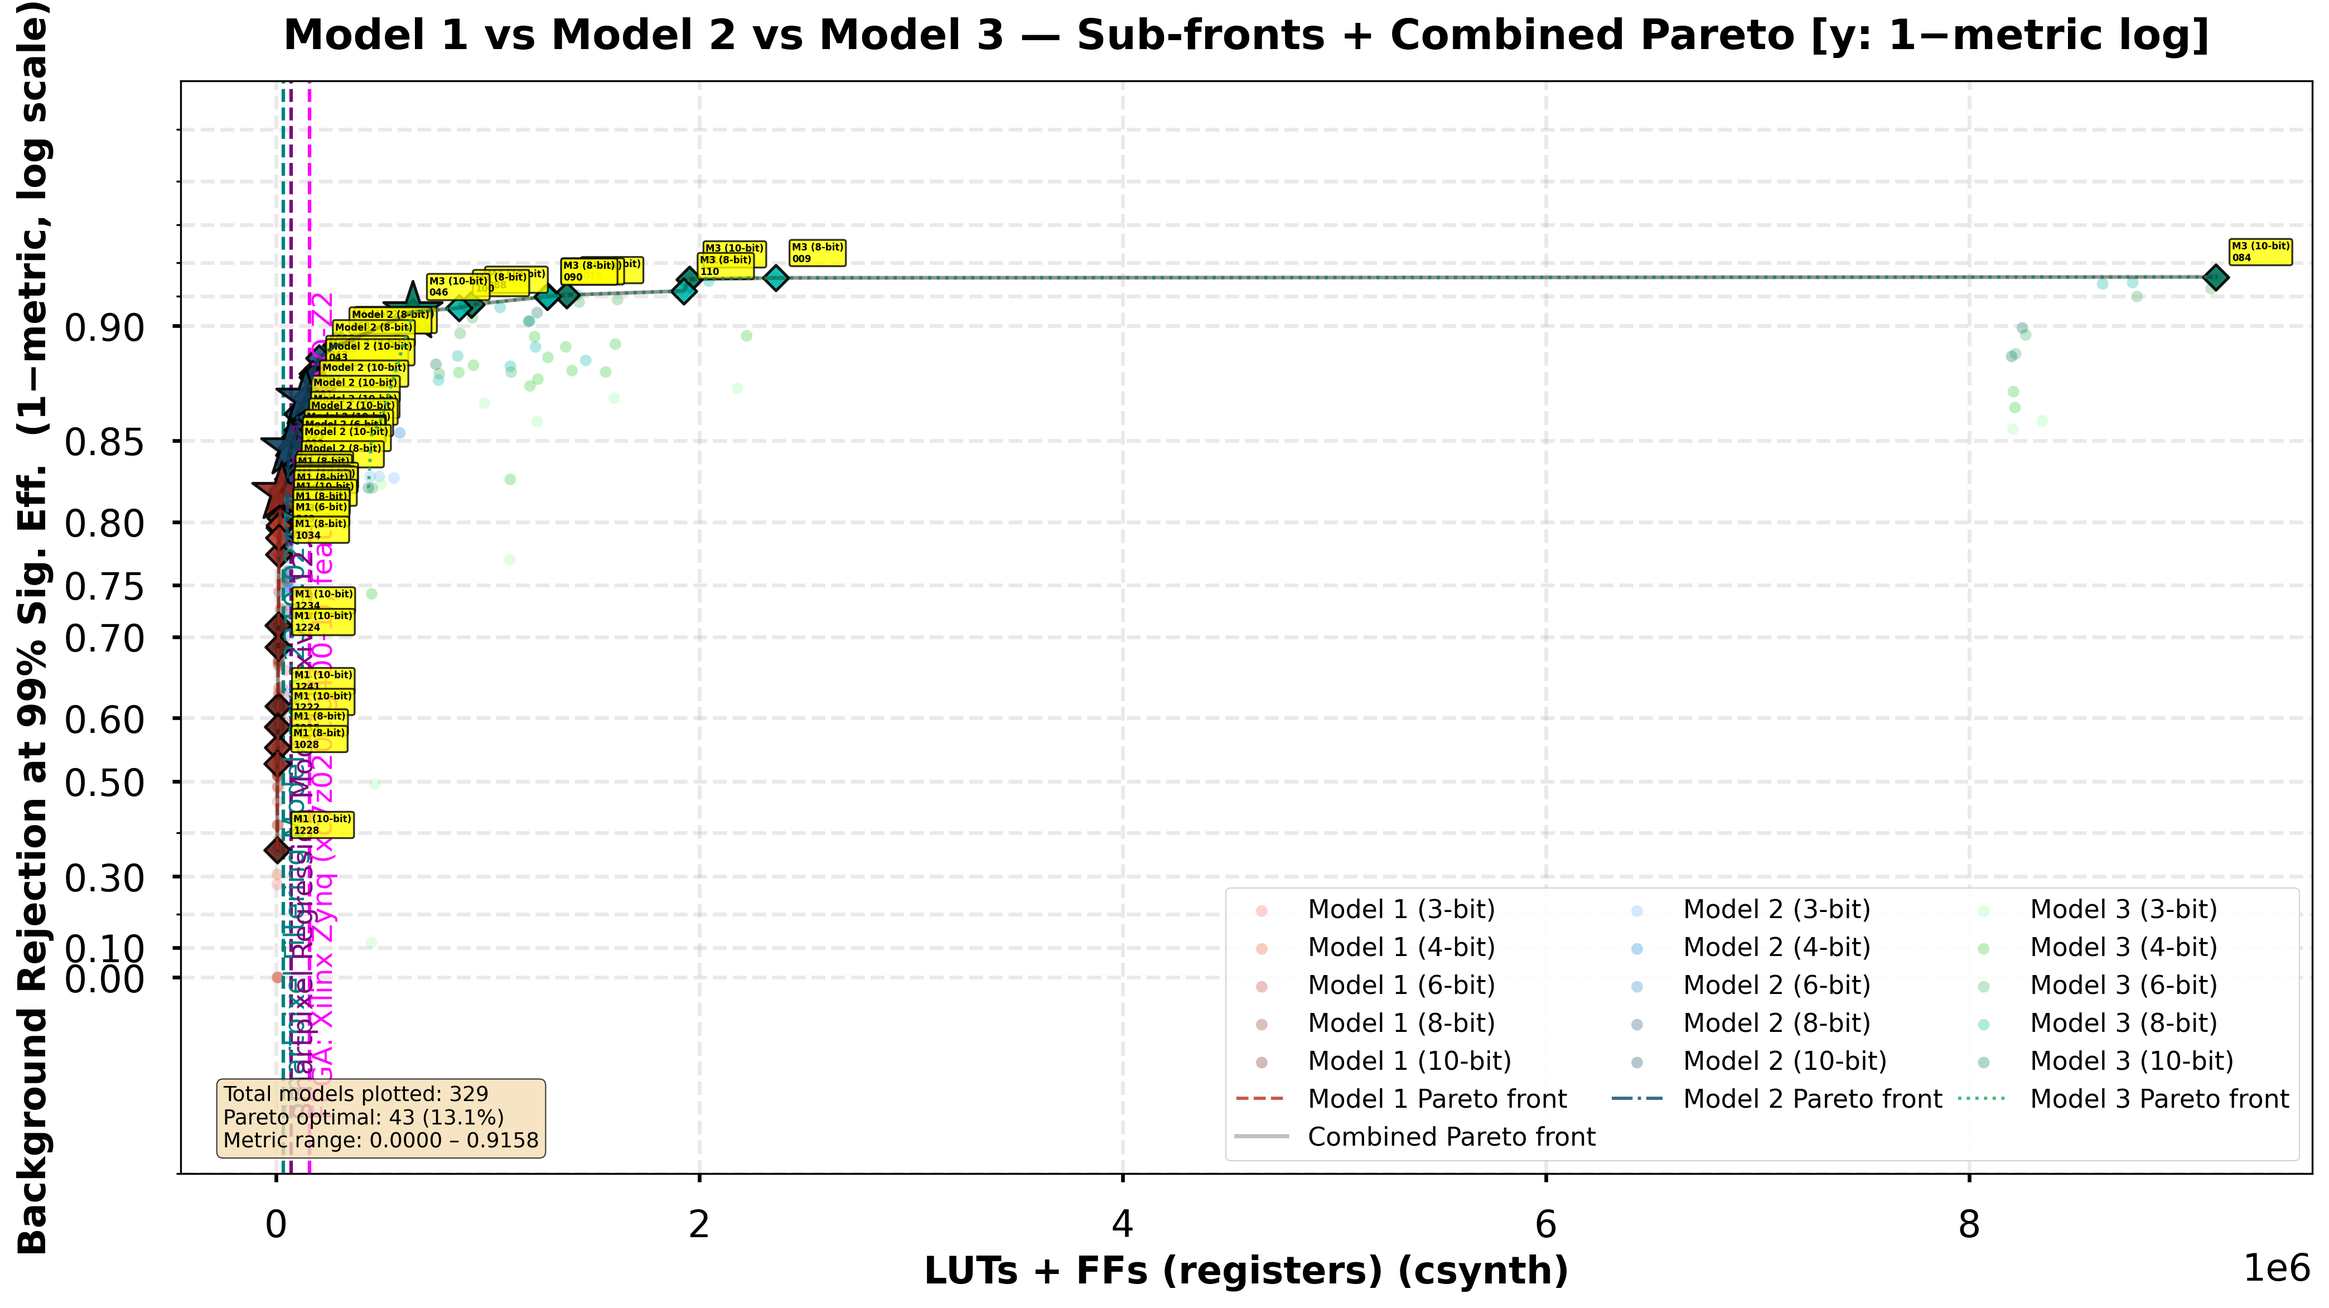
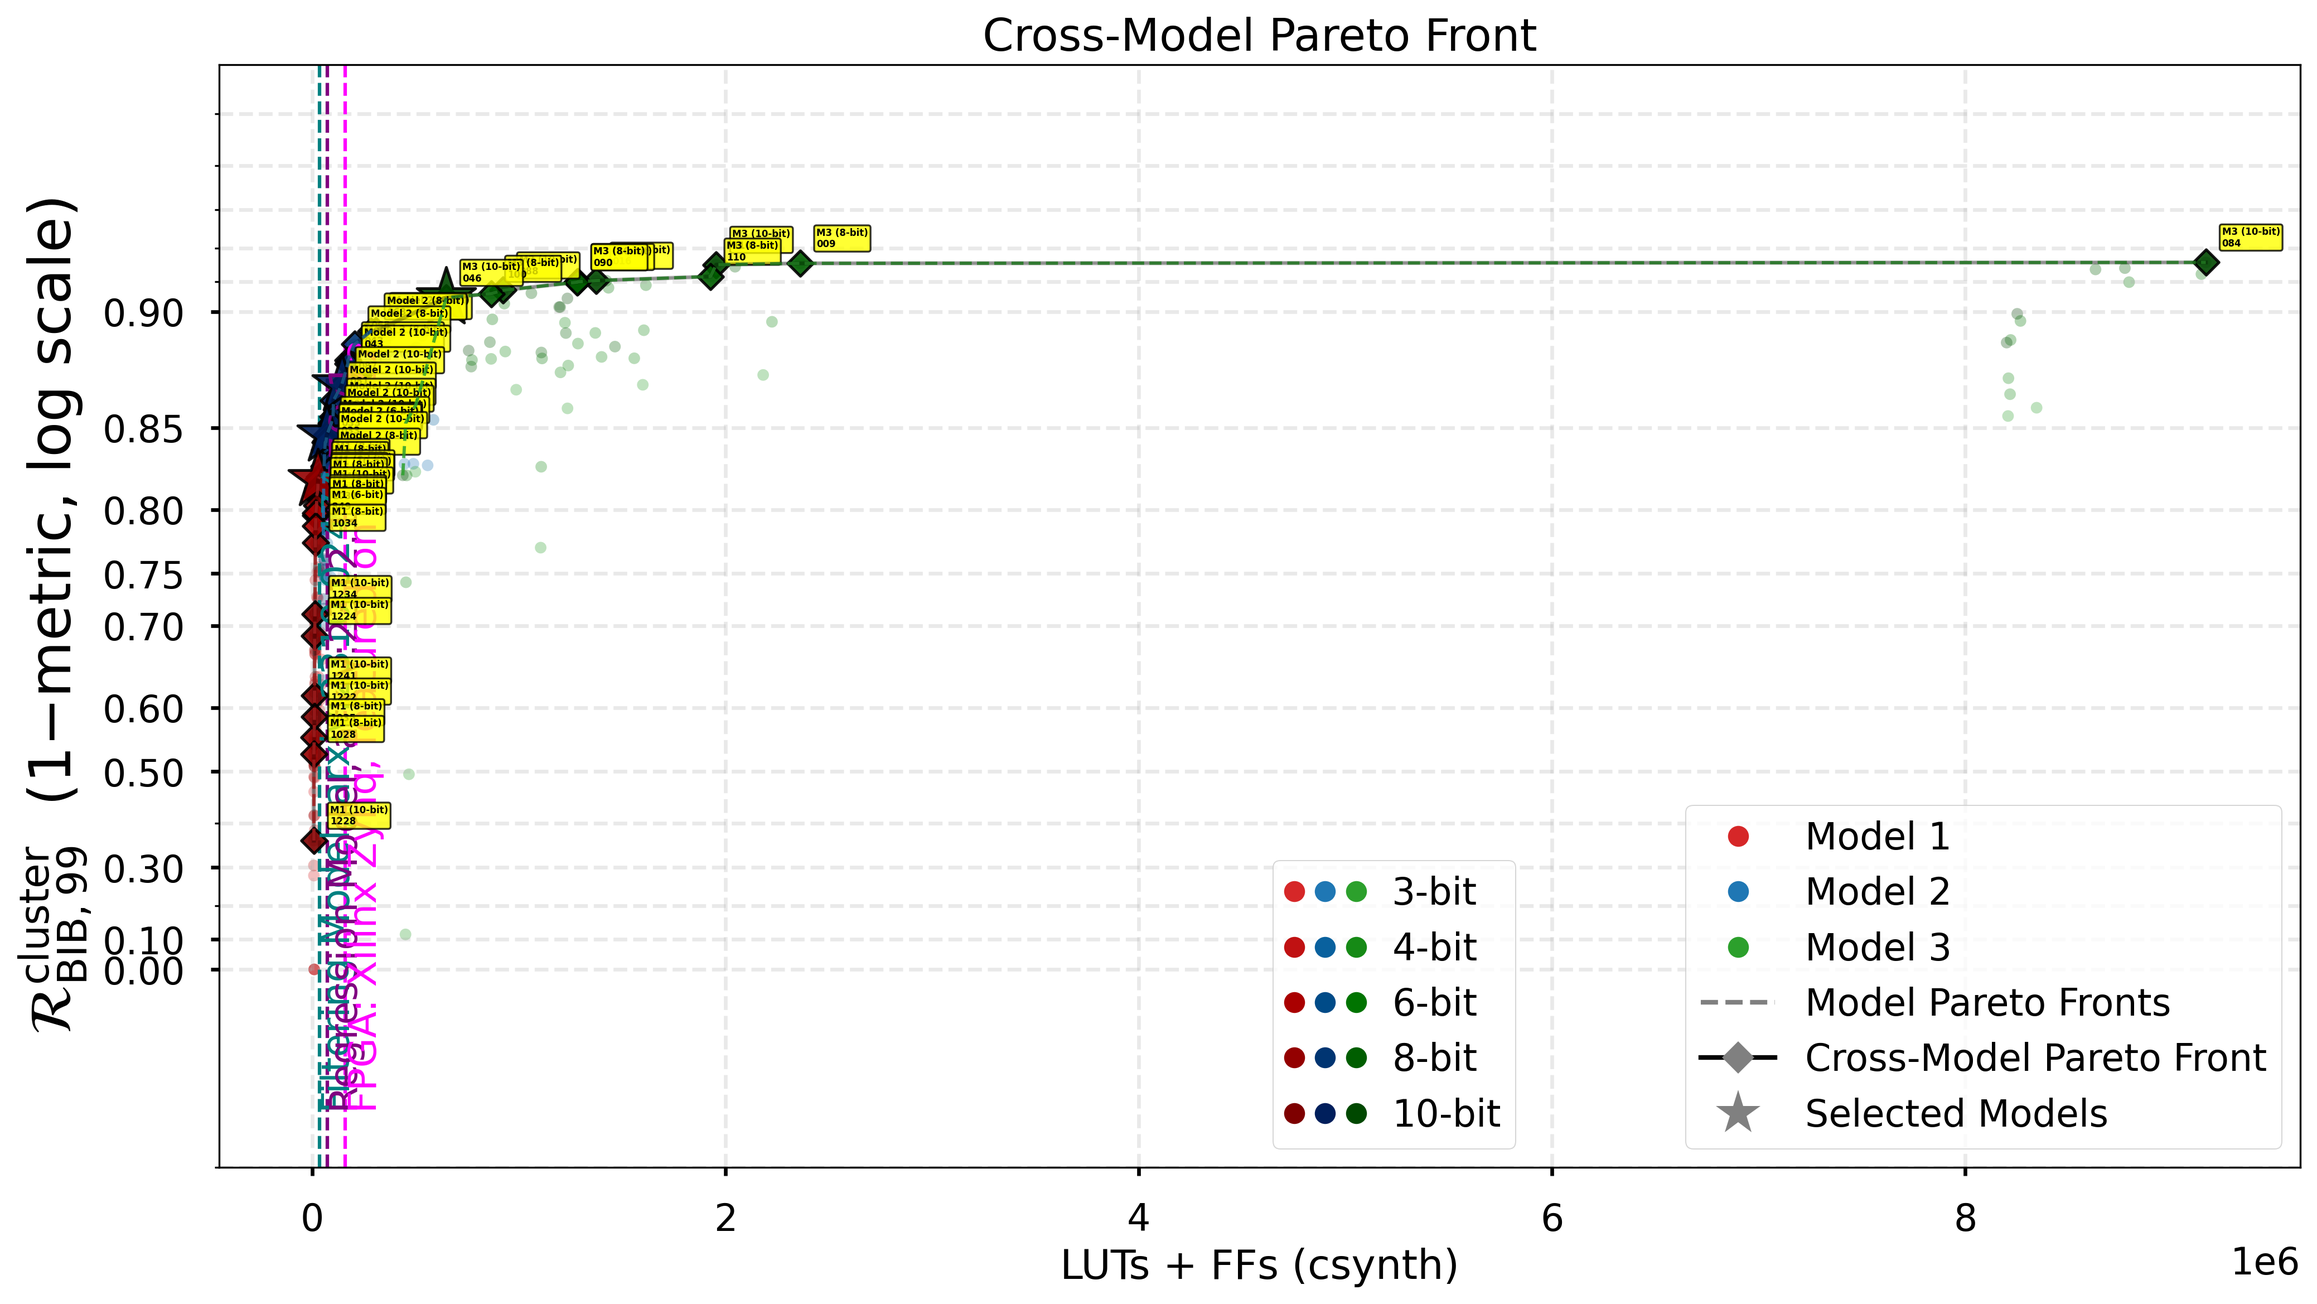
modified cross pareto plot with Karris suggestions

Changed region(s): [[0.0, 0.0, 0.9935, 0.9991], [0.9625, 0.9367, 0.9935, 0.9991], [0.8383, 0.2498, 0.8693, 0.3122]]

diff --git a/paperPlots/pareto_all_models.py b/paperPlots/pareto_all_models.py
@@ -59,17 +59,36 @@ if PRIMARY_METRIC == "primary_metric":
     METRIC_NAME = "Weighted Bkg Rejection"
 elif PRIMARY_METRIC == "bkg_rej_@99%":
     METRIC_NAME = "Background Rejection at 99% Sig. Eff."
+    METRIC_NAME = r'$\mathcal{R}_{\mathrm{BIB,99}}^{\mathrm{cluster}}$'
 else:
     raise ValueError("invalid PRIMARY_METRIC")
+
+#for the new colors that are modular kind of 
+def darken_hex(hex_str, amount=22): #amount is in decimal not hex!
+    hex_str = hex_str.lstrip("#")
+    r, g, b = [int(hex_str[i : i + 2], 16) for i in (0, 2, 4)]
+    r, g, b = [max(0, val - amount) for val in (r, g, b)]
+    return f"#{r:02x}{g:02x}{b:02x}"
+base_color = plt.rcParams["axes.prop_cycle"].by_key()["color"][3]
+reds = [base_color] + [base_color := darken_hex(base_color) for _ in range(4)]
+
+base_color = plt.rcParams["axes.prop_cycle"].by_key()["color"][2]
+greens = [base_color] + [base_color := darken_hex(base_color) for _ in range(4)]
+
+base_color = plt.rcParams["axes.prop_cycle"].by_key()["color"][0]
+blues = [base_color] + [base_color := darken_hex(base_color) for _ in range(4)]
+
+base_color = '#646464'
+grays = [base_color] + [base_color := darken_hex(base_color) for _ in range(4)]
 
 # ── Bit-width folder configs: (folder_name, run_name, label, color) ────────────
 if newFolderStructure:
     MODEL1_CONFIGS = [
-        ("model1_3bit_normalised_selected",   "model1_3w5i",   "Model 1 (3-bit)",   "#ff6b6b"),
-        ("model1_4bit_normalised_selected",   "model1_4w6i",   "Model 1 (4-bit)",   "#ee5a24"),
-        ("model1_6bit_normalised_selected",   "model1_6w8i",   "Model 1 (6-bit)",   "#c0392b"),
-        ("model1_8bit_normalised_selected",  "model1_8w10i",  "Model 1 (8-bit)",  "#922b21"),
-        ("model1_10bit_normalised_selected", "model1_10w12i", "Model 1 (10-bit)", "#641e16"),
+        ("model1_3bit_normalised_selected",   "model1_3w5i",   "Model 1 (3-bit)",   reds[0]),#"#ff6b6b"),
+        ("model1_4bit_normalised_selected",   "model1_4w6i",   "Model 1 (4-bit)",   reds[1]),#"#ee5a24"),
+        ("model1_6bit_normalised_selected",   "model1_6w8i",   "Model 1 (6-bit)",   reds[2]),#"#c0392b"),
+        ("model1_8bit_normalised_selected",  "model1_8w10i",  "Model 1 (8-bit)",  reds[3]),#"#922b21"),
+        ("model1_10bit_normalised_selected", "model1_10w12i", "Model 1 (10-bit)", reds[4]),#"#641e16"),
     ]
 else:
     MODEL1_CONFIGS = [
@@ -82,11 +101,11 @@ else:
 
 if newFolderStructure:
     MODEL25_CONFIGS = [
-        ("model2_5_3bit_normalised_selected",  "model25_3bit",  "Model 2 (3-bit)",  "#74b9ff"),
-        ("model2_5_4bit_normalised_selected",  "model25_4bit",  "Model 2 (4-bit)",  "#0984e3"),
-        ("model2_5_6bit_normalised_selected",  "model25_6bit",  "Model 2 (6-bit)",  "#2980b9"),
-        ("model2_5_8bit_normalised_selected",  "model25_8bit",  "Model 2 (8-bit)",  "#1a5276"),
-        ("model2_5_10bit_normalised_selected", "model25_10bit", "Model 2 (10-bit)", "#154360"),
+        ("model2_5_3bit_normalised_selected",  "model25_3bit",  "Model 2 (3-bit)",  blues[0]),#"#74b9ff"),
+        ("model2_5_4bit_normalised_selected",  "model25_4bit",  "Model 2 (4-bit)",  blues[1]),#"#0984e3"),
+        ("model2_5_6bit_normalised_selected",  "model25_6bit",  "Model 2 (6-bit)",  blues[2]),#"#2980b9"),
+        ("model2_5_8bit_normalised_selected",  "model25_8bit",  "Model 2 (8-bit)",  blues[3]),#"#1a5276"),
+        ("model2_5_10bit_normalised_selected", "model25_10bit", "Model 2 (10-bit)", blues[4]),#"#154360"),
     ]
 else:
     MODEL25_CONFIGS = [
@@ -98,11 +117,11 @@ else:
     ]
 
 MODEL3_CONFIGS = [
-    ("model3_3bit_normalised_selected",  "model3_3bit",  "Model 3 (3-bit)",  "#9bfea5"),
-    ("model3_4bit_normalised_selected",  "model3_4bit",  "Model 3 (4-bit)",  "#2ecc31"),
-    ("model3_6bit_normalised_selected",  "model3_6bit",  "Model 3 (6-bit)",  "#3bad58"),
-    ("model3_8bit_normalised_selected",  "model3_8bit",  "Model 3 (8-bit)",  "#00b8ac"),
-    ("model3_10bit_normalised_selected", "model3_10bit", "Model 3 (10-bit)", "#00745D"),
+    ("model3_3bit_normalised_selected",  "model3_3bit",  "Model 3 (3-bit)",  greens[0]),#"#9bfea5"),
+    ("model3_4bit_normalised_selected",  "model3_4bit",  "Model 3 (4-bit)",  greens[1]),#"#2ecc31"),
+    ("model3_6bit_normalised_selected",  "model3_6bit",  "Model 3 (6-bit)",  greens[2]),#"#3bad58"),
+    ("model3_8bit_normalised_selected",  "model3_8bit",  "Model 3 (8-bit)",  greens[3]),#"#00b8ac"),
+    ("model3_10bit_normalised_selected", "model3_10bit", "Model 3 (10-bit)", greens[4]),#"#00745D"),
 ]
 
 _ALL_CONFIGS = MODEL1_CONFIGS + MODEL25_CONFIGS + MODEL3_CONFIGS
@@ -110,9 +129,11 @@ RUN_COLORS   = {rn: col for _, rn, _, col in _ALL_CONFIGS}
 RUN_LABELS   = {rn: lbl for _, rn, lbl, _ in _ALL_CONFIGS}
 
 FAMILY_LINE = {
-    "Model 1":   dict(color="#c0392b", lw=1.4, ls="--", label="Model 1 Pareto front"),
-    "Model 2.5": dict(color="#1a5276", lw=1.4, ls="-.", label="Model 2 Pareto front"),
-    "Model 3":   dict(color="#27ae60", lw=1.4, ls=":",  label="Model 3 Pareto front"),
+    "Model 1":   dict(color=reds[0], lw=1.4, ls="--", label="Model 1 Pareto front"),
+    # "Model 2.5": dict(color="#1a5276", lw=1.4, ls="-.", label="Model 2 Pareto front"),
+    "Model 2.5": dict(color=blues[0], lw=1.4, ls="--", label="Model 2 Pareto front"),
+    # "Model 3":   dict(color="#27ae60", lw=1.4, ls=":",  label="Model 3 Pareto front"),
+    "Model 3":   dict(color=greens[0], lw=1.4, ls="--",  label="Model 3 Pareto front"),
     "Combined":  dict(color="black",   lw=1.8, ls="-",  label="Combined Pareto front"),
 }
 
@@ -125,12 +146,15 @@ COMP_LOG_TICKS = [0.9, 0.85, 0.80, 0.75, 0.70, 0.60, 0.50, 0.30, 0.10, 0.0]
 
 HARDWARE_REFS = [
     # (34568,"Smartpixel Filtering Model (csynth) DOI 10.1088/2632-2153/ad6a00","teal",0.05,0),#for top alignment, 0.86 #qmodel_file = "/local/d1/smartpixLab/fermiModels/ds8l6_padded_noscaling_qkeras_foldbatchnorm_d58w4a8model.h5"
-    (34568,"Smartpixel Filtering Model, arxiv:2310.02474","teal",0.05,0),#for top alignment, 0.86 #qmodel_file = "/local/d1/smartpixLab/fermiModels/ds8l6_padded_noscaling_qkeras_foldbatchnorm_d58w4a8model.h5"
+    # (34568,"Smartpixel Filtering Model, arxiv:2310.02474","teal",0.05,0),#for top alignment, 0.86 #qmodel_file = "/local/d1/smartpixLab/fermiModels/ds8l6_padded_noscaling_qkeras_foldbatchnorm_d58w4a8model.h5"
+    (34568,"Filtering Model, arxiv:2310.02474","teal",0.05,0),#for top alignment, 0.86 #qmodel_file = "/local/d1/smartpixLab/fermiModels/ds8l6_padded_noscaling_qkeras_foldbatchnorm_d58w4a8model.h5"
     # (26376,"Smartpixel Filtering Model (vsynth)","teal",0.05,0), #for top alignment 0.5 #qmodel_file = "/local/d1/smartpixLab/fermiModels/ds8l6_padded_noscaling_qkeras_foldbatchnorm_d58w4a8model.h5"
-    (14289+57398,"Smartpixel Regression Model, arxiv:2312.11676v1","purple",0.05,0), #for top alignment 0.5 #qmodel_file = "/local/d1/smartpixLab/fermiModels/ds8l6_padded_noscaling_qkeras_foldbatchnorm_d58w4a8model.h5"
+    # (14289+57398,"Smartpixel Regression Model, arxiv:2312.11676v1","purple",0.05,0), #for top alignment 0.5 #qmodel_file = "/local/d1/smartpixLab/fermiModels/ds8l6_padded_noscaling_qkeras_foldbatchnorm_d58w4a8model.h5"
+    (14289+57398,"Regression Model, arxiv:2312.11676v1","purple",0.05,0), #for top alignment 0.5 #qmodel_file = "/local/d1/smartpixLab/fermiModels/ds8l6_padded_noscaling_qkeras_foldbatchnorm_d58w4a8model.h5"
     # (35216,"Smartpixel Filtering Model (csynth) but add an input quantization layer","teal",0.95), #singleFilepath = "/home/dabadjiev/smartpixels_ml_dsabadjiev/Muon_Collider_Smart_Pixels/daniel/ASIC Model_results_20260610_055759/models/ASIC Model_quantized_4bit.h5"
     # (24853,"Smartpixel Filtering Model (vsynth) but add an input quantization layer","teal",0.95), #singleFilepath = "/home/dabadjiev/smartpixels_ml_dsabadjiev/Muon_Collider_Smart_Pixels/daniel/ASIC Model_results_20260610_055759/models/ASIC Model_quantized_4bit.h5"
-    (106400+53200,"FPGA: Xilinx Zynq (xc7z020clg400-1), featured on PYNQ-Z2","fuchsia",0.05,0),
+    # (106400+53200,"FPGA: Xilinx Zynq (xc7z020clg400-1), featured on PYNQ-Z2","fuchsia",0.05,0),
+    (106400+53200,"FPGA: Xilinx Zynq, featured on PYNQ-Z2","fuchsia",0.05,0),
     # (20736+15552,"FPGA: Tang Nano 20k","pink",0.05,0.1),
     # (14400+28800,"FPGA: Xilinx Zynq 7007S (xc7z007z)","purple",0.05,0.1),#https://www.mouser.com/datasheet/2/903/ds190-Zynq-7000-Overview-1595492.pdf
     # (10000+20000,'Small FPGA: "Pink Board" Tang Nano 20k', ), #accroding to https://deepwiki.com/sipeed/sipeed_wiki/4.1-tang-nano-20k
@@ -448,7 +472,7 @@ def add_threshold_line(ax, x_val, label, color='gray', linestyle='--', linewidth
             color=color, 
             va='bottom',         
             ha='left',        
-            fontsize=12,
+            fontsize=plt.rcParams["axes.labelsize"]-1,
             zorder=3
         )
     else:
@@ -547,7 +571,7 @@ def reorderLegend(handles, labels, legendOrder=[]):
         return handles, labels
     return [handles[idx] for idx in legendOrder],[labels[idx] for idx in legendOrder]
   
-def _add_legend_and_stats(ax, df, pareto_df, complement=False, extra_handles=None):
+def _add_legend_and_stats(ax, df, pareto_df, complement=False, extra_handles=None,showStats=False,oldLegend=False):
     handles, labels = ax.get_legend_handles_labels()
     if extra_handles:
         handles += extra_handles
@@ -560,15 +584,61 @@ def _add_legend_and_stats(ax, df, pareto_df, complement=False, extra_handles=Non
     loc = "lower right"
     legendOrder = [0,1,2,3,4,15,18,5,6,7,8,9,16,10,11,12,13,14,17]
     h2, l2 = reorderLegend(h2, l2, legendOrder=legendOrder)
-    ax.legend(h2, l2, loc=loc, fontsize=11, framealpha=0.9, ncol=3, columnspacing=0.6)
+    if oldLegend:
+        ax.legend(h2, l2, loc=loc, fontsize=11, framealpha=0.9, ncol=3, columnspacing=0.6)
+    else:
+        from matplotlib.lines import Line2D
+        from matplotlib.legend_handler import HandlerTuple
+        bits = ["3-bit", "4-bit", "6-bit", "8-bit", "10-bit"]
+        # 2. Build the 5 rows of colored dots
+        bit_handles = []
+        for i in range(5):
+            # Create a tuple of 3 separate dots using your 3 different gray/darkened variants
+            row_dots = (
+                Line2D([], [], marker="o", color="none", markerfacecolor=reds[i], markersize=9),
+                Line2D([], [], marker="o", color="none", markerfacecolor=blues[i], markersize=9),
+                Line2D([], [], marker="o", color="none", markerfacecolor=greens[i], markersize=9),
+            )
+            bit_handles.append(row_dots)
+
+        # 3. Build the generic "Data" vs "Linear Fit" legend entries
+        style_handles = [
+            
+            Line2D([0], [0], marker="o", color="none", markerfacecolor=reds[0], markeredgecolor="dimgray", markersize=9, label="Model 1"),
+            Line2D([0], [0], marker="o", color="none", markerfacecolor=blues[0], markeredgecolor="dimgray", markersize=9, label="Model 2"),
+            Line2D([0], [0], marker="o", color="none", markerfacecolor=greens[0], markeredgecolor="dimgray", markersize=9, label="Model 3"),
+            Line2D([0], [0], linestyle="--", color="gray", linewidth=2, label="Model Pareto Fronts"),
+            Line2D([], [], 
+                    linestyle="-",       # Solid line
+                    color="black",        # Line color
+                    linewidth=2, 
+                    marker="D",          # "D" creates a large diamond (use "d" for a thin diamond)
+                    markerfacecolor="gray", 
+                    markeredgecolor="black", 
+                    markersize=10, 
+                    label="Cross-Model Pareto Front",
+                ),
+            Line2D([0], [0], marker="*", color="none", markerfacecolor="gray", markeredgecolor="black", markersize=20, label="Selected Models"),
+            # Line2D([0], [0], linestyle="-", color="black", linewidth=2, label="Cross-Model Pareto Front"),
+
+        ]
+
+        # 4. Add the first legend (bits) and anchor it manually
+        leg1 = ax.legend(handles=bit_handles, labels=bits,loc="lower right", bbox_to_anchor=(0.632, 0.0),#559 if other legend
+                        frameon=True,handler_map={tuple: HandlerTuple(ndivide=None, pad=0.5)} )
+        ax.add_artist(leg1)  # Prevents the second legend from overwriting the first
+
+        # 5. Add the second legend (Styles)
+        ax.legend(handles=style_handles, loc="lower right", frameon=True)
 
     stats = (f"Total models plotted: {len(df)}\n"
              f"Pareto optimal: {len(pareto_df)} ({100*len(pareto_df)/len(df):.1f}%)\n"
              f"Metric range: {df[PRIMARY_METRIC].min():.4f} – {df[PRIMARY_METRIC].max():.4f}")
-    ax.text(0.02, 0.02 if complement else 0.98, stats,
-            transform=ax.transAxes, fontsize=9,
-            va="bottom" if complement else "top",
-            bbox=dict(boxstyle="round", facecolor="wheat", alpha=0.8))
+    if showStats:
+        ax.text(0.02, 0.02 if complement else 0.98, stats,
+                transform=ax.transAxes, fontsize=9,
+                va="bottom" if complement else "top",
+                bbox=dict(boxstyle="round", facecolor="wheat", alpha=0.8))
 
 
 def _finalize(ax, title, xscale="linear", complement=False):
@@ -576,12 +646,13 @@ def _finalize(ax, title, xscale="linear", complement=False):
     if xscale != "linear": tags.append("x-log")
     if complement:          tags.append("y: 1−metric log")
     tag = f" [{', '.join(tags)}]" if tags else ""
-    ax.set_title(title + tag, fontsize=18, fontweight="bold", pad=14)
-    ax.set_xlabel("LUTs + FFs (registers) (csynth)", fontsize=16, fontweight="bold")
+    ax.set_title(title)# + tag, fontsize=18, fontweight="bold", pad=14)
+    # ax.set_xlabel("LUTs + FFs (registers) (csynth)", )#fontsize=16, fontweight="bold")
+    ax.set_xlabel("LUTs + FFs (csynth)", )#fontsize=16, fontweight="bold")
     ax.set_ylabel(
         f"{METRIC_NAME}  (1−metric, log scale)" if complement
-        else METRIC_NAME,
-        fontsize=16, fontweight="bold")
+        else METRIC_NAME,fontsize=25)
+        #fontsize=16, fontweight="bold")
     ax.grid(True, alpha=0.28, linestyle="--", which="both")
     for (ff_plus_lut, label,color,labelYHeight,textOffset) in HARDWARE_REFS:
         add_threshold_line(ax,ff_plus_lut,label,color=color,labelYHeight=labelYHeight,textOffset = textOffset)
@@ -613,6 +684,7 @@ def make_plot_simple(df, pareto_df, output_dir, zoomed=False, annotate=True):
         suffix = "_full"
         title  = f"Model 1 vs Model 2 vs Model 3 — Combined Pareto Front\n{METRIC_NAME} vs LUTs + FF"
         title  = f"Model 1 vs Model 2 vs Model 3 — Combined Pareto Front"
+        title  = f"Cross-Model Pareto Front"
     _finalize(ax, title)
     _add_legend_and_stats(ax, df, pareto_df)
     plt.tight_layout()
@@ -631,8 +703,11 @@ def make_plot_subfronts(df, pareto_df, pareto_m1, pareto_m25, pareto_m3,
                     x_col, complement=complement)
     if complement:
         _setup_complement_log_y(ax, df)
+    else:
+        ax.set_ylim(-0.01,1)
 
     title = ("Model 1 vs Model 2 vs Model 3 — Sub-fronts + Combined Pareto")
+    title = ("Cross-Model Pareto Front")
             #  f"\n{METRIC_NAME} vs LUTs + FF")
     _finalize(ax, title, xscale=xscale, complement=complement)
 
@@ -733,7 +808,7 @@ def main():
                             figsize=(13,9*13/16))
         make_plot_subfronts(df, pareto_all, pareto_m1, pareto_m25, pareto_m3,
                             OUTPUT_DIR, xscale="log",    complement=False, annotate=annotate,
-                            figsize=(13.4,9*13.2/16))
+                            figsize=(11.2,7.4))
         make_plot_subfronts(df, pareto_all, pareto_m1, pareto_m25, pareto_m3,
                             OUTPUT_DIR, xscale="linear", complement=True,  annotate=annotate)
         make_plot_subfronts(df, pareto_all, pareto_m1, pareto_m25, pareto_m3,
